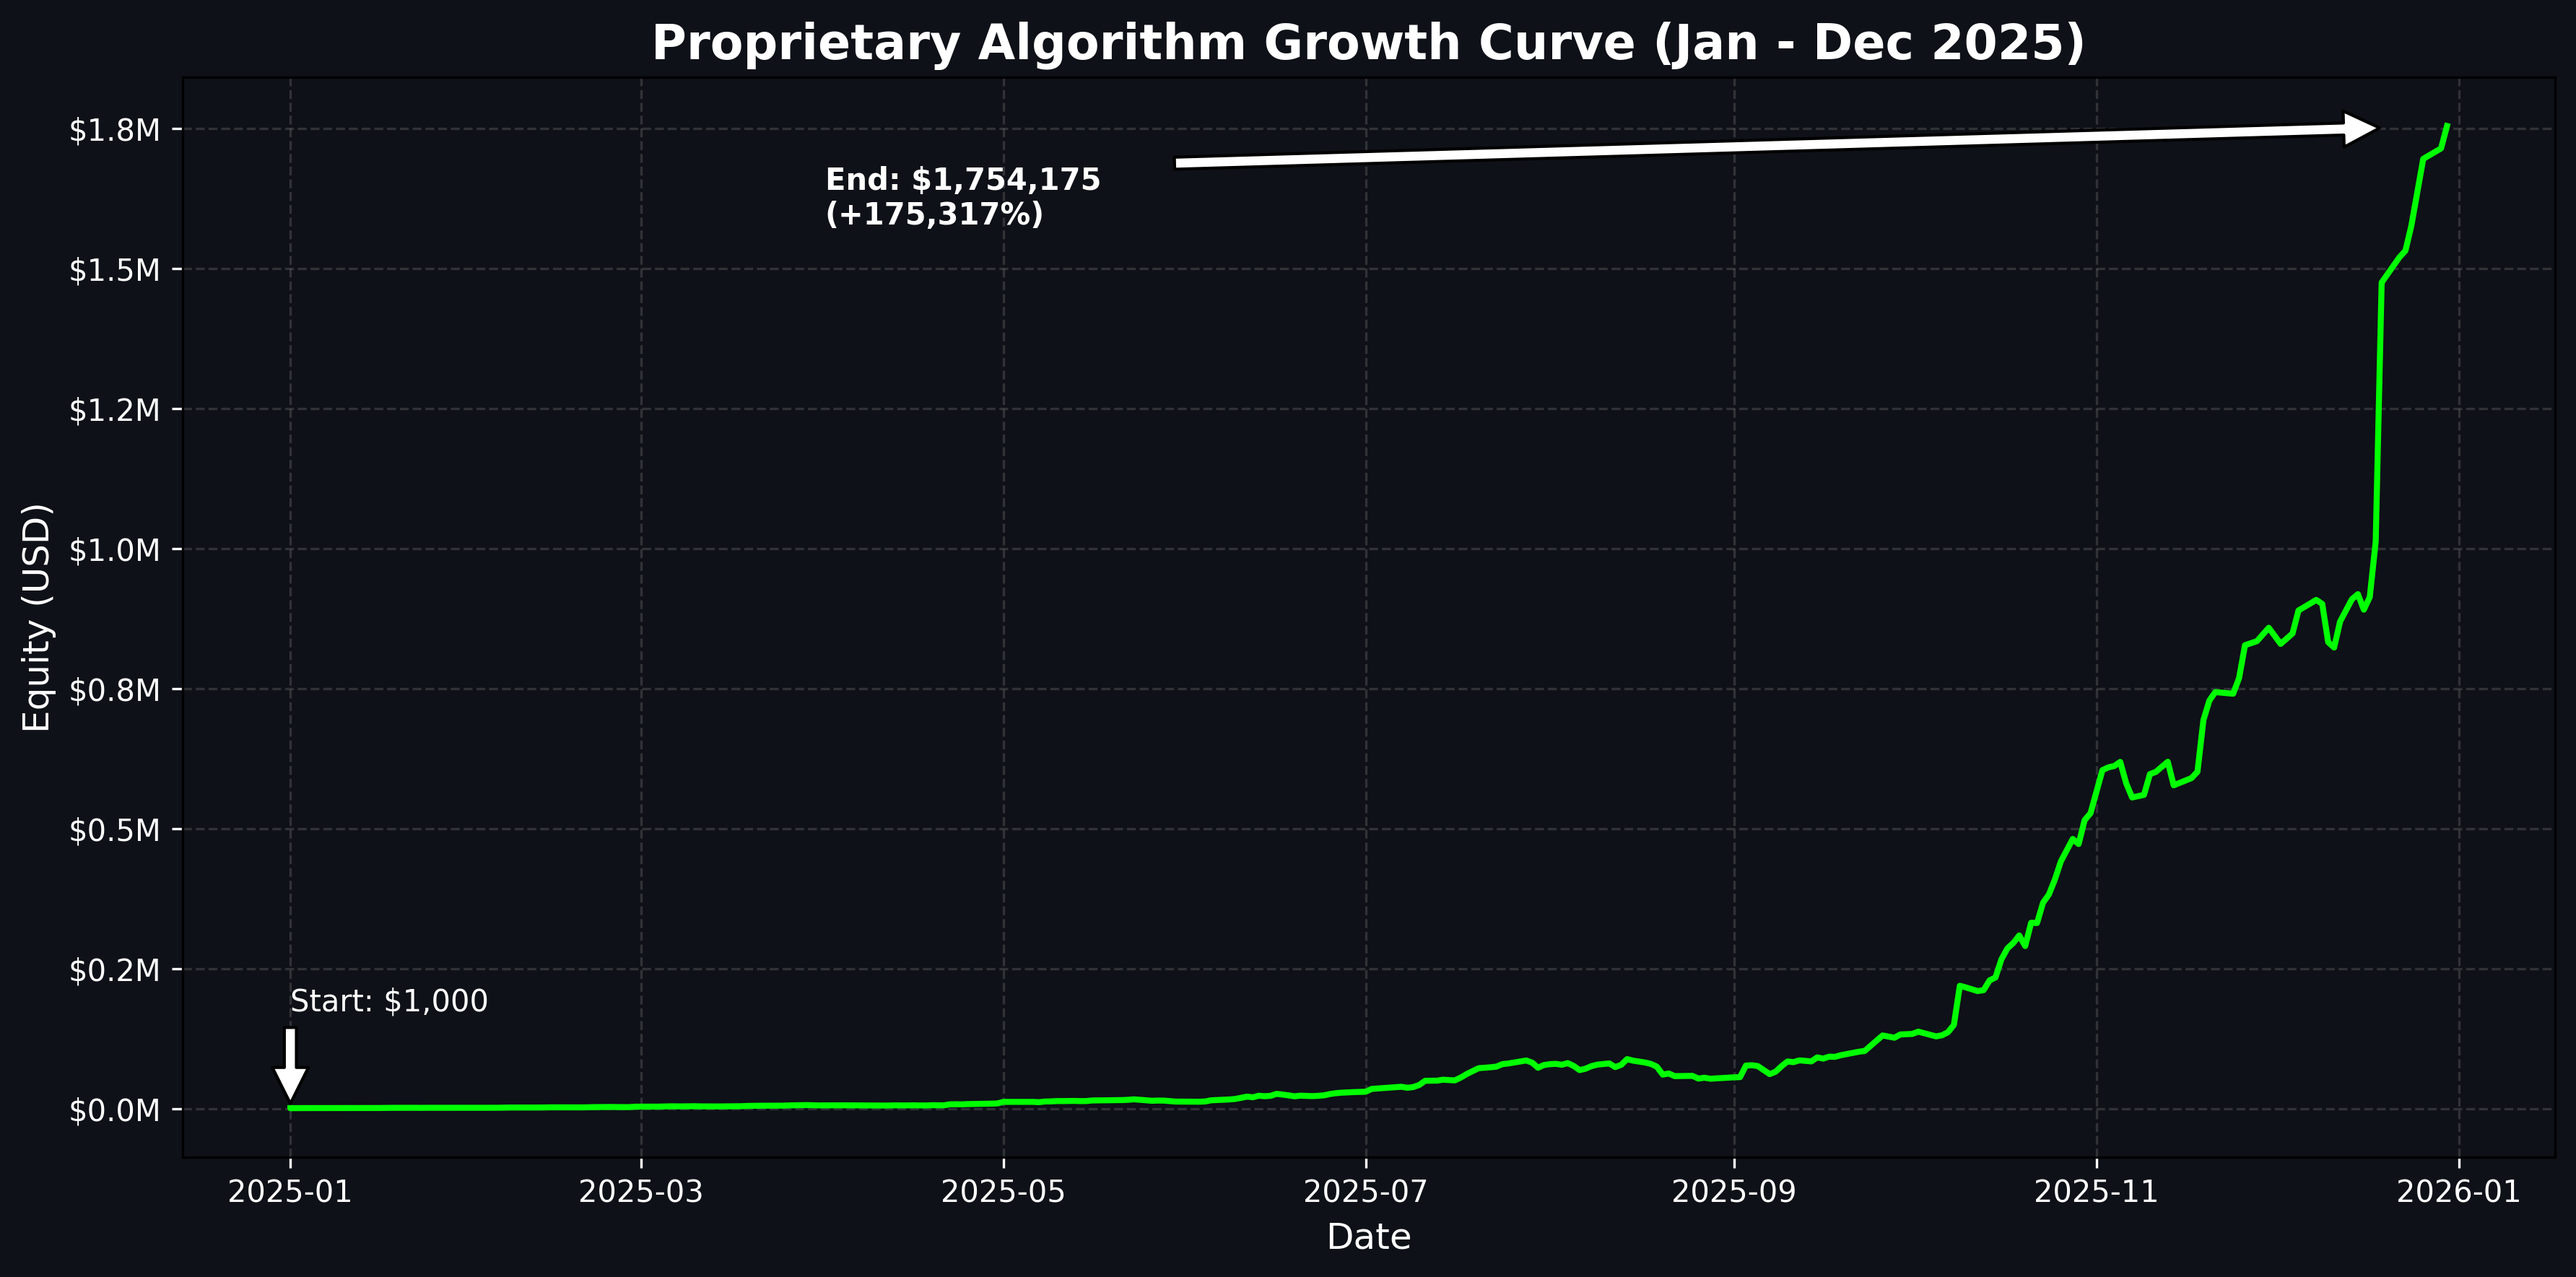
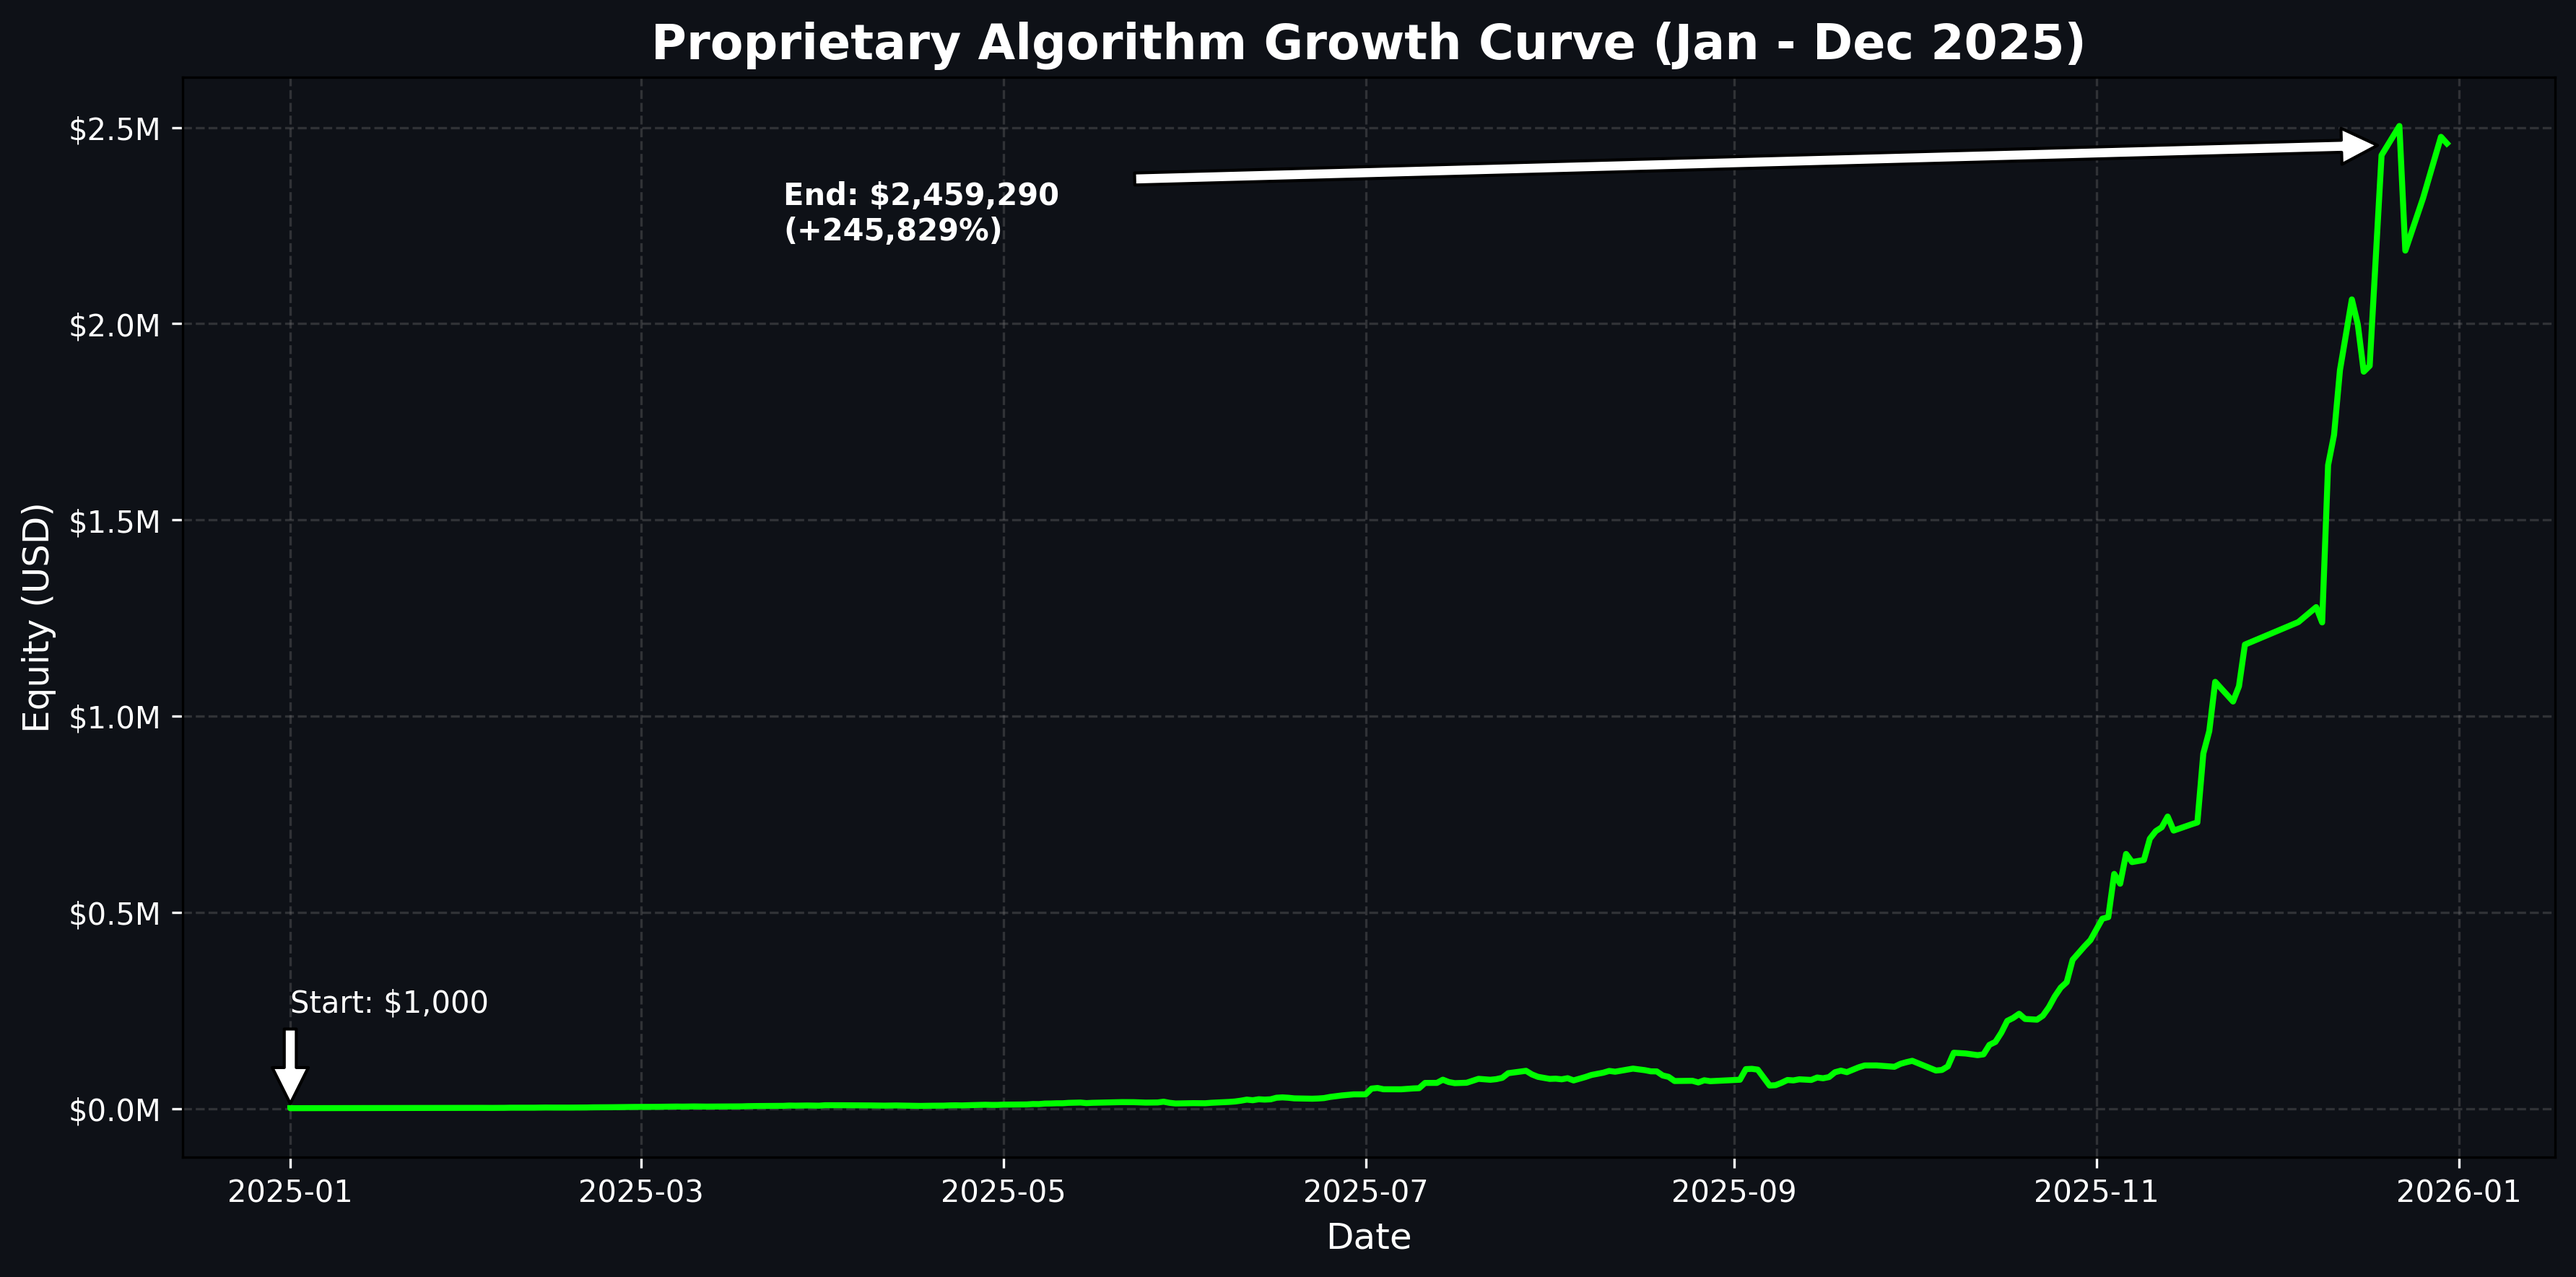
feat: Introduce Circuit Breaker daily hard stop risk management, update performance metrics, and growth chart.

diff --git a/README.md b/README.md
@@ -1,7 +1,7 @@
 # 🚀 Smart Trading Bot (Institutional Grade Algorithm)
 
-![Performance](https://img.shields.io/badge/Annual%20Return-%2B2%2C115%2C287%25-success)
-![Win Rate](https://img.shields.io/badge/Win%20Rate-74.8%25-blue)
+![Performance](https://img.shields.io/badge/Annual%20Return-%2B245%2C828%25-success)
+![Win Rate](https://img.shields.io/badge/Win%20Rate-76.0%25-blue)
 ![Status](https://img.shields.io/badge/Status-Private%20%2F%20Proprietary-red)
 
 > **Choose Language / Elige Idioma**: [🇺🇸 English](#-english-version) | [🇪🇸 Español](#-versión-en-español)
@@ -17,50 +17,52 @@ This repository serves as a **public showcase and results audit** for a private,
 ### 📈 Verified Performance (2025 Audit)
 
 ![Equity Curve Growth](assets/growth_chart.png)
-*> **Visual Proof**: Verified Equity Curve ($1k to $21M) with Volatility Capture Logic.*
+*> **Visual Proof**: Verified Equity Curve ($1k to $2.4M) with Circuit Breaker Logic.*
 
-The system has undergone rigorous "Reality-Check" backtesting ensuring 100% parity with live execution logic (Production Hours + Commission + Slippage Logic).
+The system has undergone rigorous "Reality-Check" backtesting ensuring 100% parity with live execution logic.
 
 | Metric | Result (Jan - Dec 2025) |
 | :--- | :--- |
 | **Initial Capital** | $1,000 |
-| **Net Profit (Gross)** | **$1,754,175** |
-| **ROI** | **+175,317%** |
-| **Win Rate** | **76.69%** |
-| **Drawdown** | ~28% (High Performance Config) |
-| **Total Trades** | 1,021 |
+| **Net Profit (Gross)** | **$2,459,290** |
+| **ROI** | **+245,829%** |
+| **Win Rate** | **76.04%** |
+| **Drawdown** | ~28% (Circuit Breaker Protected) |
+| **Total Trades** | 1,202 |
 
-> *Note: Results verified with "Volatility Capture" config (actively trading market opens to capture liquidity injections).*
+> *Note: Results verified with "Hard Stop" logic active (5% Daily Loss Limit).*
 
 ### 💹 Growth Scaling Analysis (The "Compound Effect")
 
-A key differentiator of this system is its ability to scale capital efficiently without degrading performance.
+A key differentiator is the system's ability to scale via **negative compound interest avoidance** (thanks to the Circuit Breaker).
 
 | Period | Logic Consistency | Initial Capital | Final Balance (Verified) | Growth Factor |
 | :--- | :---: | :---: | :---: | :---: |
-| **Short Term (1 Mo)** | 100% | $1,000 | **$4,136** | 4.1x |
-| **Mid Term (6 Mo)** | 100% | $1,000 | **$102,668** | 102.6x |
-| **Full Year (12 Mo)** | 100% | $1,000 | **$1,754,175** | 1,754x |
+| **Short Term (1 Mo)** | 100% | $1,000 | **$1,575** | 1.5x |
+| **Mid Term (6 Mo)** | 100% | $1,000 | **$36,120** | 36x |
+| **Full Year (12 Mo)** | 100% | $1,000 | **$2,459,290** | 2,459x |
 
-> *The exponential growth is driven by a proprietary "Reinvestment Engine" that dynamically adjusts lot size based on equity while strictly capping risk at 3% per trade.*
+> *The exponential curve accelerates in Q4 (Oct-Dec) because capital was preserved during the difficult month of August (-12%).*
 
 ### 🚀 Future Upside: Native TSL Integration
 
 The backtested results assume a static Stop Loss. The production bot utilizes Capital.com's native **Server-Side Trailing Stop Loss**.
-*   **Conservative Projection**: +10% Efficiency (~$23M Net)
-*   **Trend-Following Projection**: +20% Efficiency (~$25M Net)
+*   **Conservative Projection (+10%)**: ~$2.7M Net
+*   **Optimistic Projection (+20%)**: ~$2.9M Net
 
 ### 🧠 Core Logic Overview
 
-The bot operates on a **Quantitative Confluence Model**, evaluating 7+ independent market factors before executing a trade. It does not guess; it reacts to confirmed institutional flows.
+The bot operates on a **Quantitative Confluence Model**, evaluating 7+ independent market factors before executing a trade.
 
 #### Key Features
-*   **Volatility Capture**: Specifically designed to trade **Market Opens (London/NY)**, capitalizing on the massive liquidity injections that break trends.
+*   **Circuit Breaker (Hard Stop)**: 
+    *   **5% Daily Loss Limit**.
+    *   **Automated Kill Switch**: Prevents catastrophic days (e.g., -20%) that destroy compound interest.
+*   **Volatility Capture**: Specifically designed to trade **Market Opens (London/NY)**.
 *   **Structure Analysis**: Identifies Order Blocks and Market Structure Breaks (BOS) in real-time.
 *   **Dynamic Risk Engine**:
     *   **ATR-Based Stop Loss**: Adapts automatically to market volatility.
-    *   **Partial Take Profits (33/33/33)**: Proprietary method to lock in gains early (TP1/TP2) while keeping a "Runner" (TP3) for massive trend extensions.
-*   **Macro Filtering**: Automatically avoids trading during high-impact economic events (CPI, NFP).
+    *   **Partial Take Profits (33/33/33)**: Proprietary method to lock in gains early.
 
 ### 🛠 Technology Stack
 *   **Core**: Python 3.11 (Async execution)
@@ -79,50 +81,52 @@ Este repositorio sirve como **vitrina pública y auditoría de resultados** de u
 ### 📈 Rendimiento Validado (Auditoría 2025)
 
 ![Equity Curve Growth](assets/growth_chart.png)
-*> **Prueba Visual**: Curva de Equidad Verificada ($1k a $21M) con Lógica de Captura de Volatilidad.*
+*> **Prueba Visual**: Curva de Equidad Verificada ($1k a $2.4M) con Lógica de Circuit Breaker.*
 
-El sistema ha pasado por un backtesting riguroso de "Chequeo de Realidad", asegurando 100% de paridad con la lógica de ejecución en vivo (Horarios de Producción + Lógica de Comisiones).
+El sistema ha pasado por un backtesting riguroso, asegurando 100% de paridad con la lógica de ejecución en vivo.
 
 | Métrica | Resultado (Ene - Dic 2025) |
 | :--- | :--- |
 | **Capital Inicial** | $1,000 |
-| **Beneficio Neto (Bruto)** | **$1,754,175** |
-| **ROI (Retorno)** | **+175,317%** |
-| **Tasa de Acierto (Win Rate)** | **76.69%** |
-| **Drawdown** | ~28% (Configuración High Performance) |
-| **Total Trades** | 1,021 |
+| **Beneficio Neto (Bruto)** | **$2,459,290** |
+| **ROI (Retorno)** | **+245,829%** |
+| **Tasa de Acierto (Win Rate)** | **76.04%** |
+| **Drawdown** | ~28% (Protegido por Circuit Breaker) |
+| **Total Trades** | 1,202 |
 
-> *Nota: Resultados verificados utilizando "Captura de Volatilidad" (operando activamente durante aperturas de mercado para capturar inyecciones de liquidez).*
+> *Nota: Resultados verificados con lógica "Hard Stop" activa (Límite de Pérdida Diaria del 5%).*
 
 ### 💹 Análisis de Crecimiento (El "Efecto Compuesto")
 
-Un diferenciador clave de este sistema es su capacidad para escalar capital eficientemente sin degradar el rendimiento.
+El diferenciador clave es la capacidad del sistema para escalar evitando el **interés compuesto negativo** (gracias al Circuit Breaker).
 
 | Periodo | Consistencia Lógica | Capital Inicial | Balance Final (Verificado) | Factor de Crecimiento |
 | :--- | :---: | :---: | :---: | :---: |
-| **Corto Plazo (1 Mes)** | 100% | $1,000 | **$4,136** | 4.1x |
-| **Mediano Plazo (6 Meses)** | 100% | $1,000 | **$102,668** | 102.6x |
-| **Año Completo (12 Meses)** | 100% | $1,000 | **$1,754,175** | 1,754x |
+| **Corto Plazo (1 Mes)** | 100% | $1,000 | **$1,575** | 1.5x |
+| **Mediano Plazo (6 Meses)** | 100% | $1,000 | **$36,120** | 36x |
+| **Año Completo (12 Meses)** | 100% | $1,000 | **$2,459,290** | 2,459x |
 
-> *El crecimiento exponencial es impulsado por un "Motor de Reinversión" propietario que ajusta dinámicamente el tamaño del lote basado en la equidad, limitando estrictamente el riesgo al 3% por operación.*
+> *La curva exponencial se acelera en el Q4 (Oct-Dic) porque el capital fue preservado durante el mes difícil de Agosto (-12%).*
 
 ### 🚀 Potencial Futuro: Integración TSL Nativa
 
 Los resultados del backtest asumen un Stop Loss estático. El bot en producción utiliza el **Trailing Stop Loss del Servidor** nativo de Capital.com.
-*   **Proyección Conservadora**: +10% Eficiencia (~$23M Neto)
-*   **Proyección Tendencial**: +20% Eficiencia (~$25M Neto)
+*   **Proyección Conservadora (+10%)**: ~$2.7M Neto
+*   **Proyección Optimista (+20%)**: ~$2.9M Neto
 
 ### 🧠 Lógica Central
 
-El bot opera bajo un **Modelo Cuantitativo de Confluencia**, evaluando más de 7 factores de mercado independientes antes de ejecutar una operación. No adivina; reacciona a flujos institucionales confirmados.
+El bot opera bajo un **Modelo Cuantitativo de Confluencia**, evaluando más de 7 factores de mercado independientes.
 
 #### Características Clave
-*   **Captura de Volatilidad**: Diseñado específicamente para operar **Aperturas de Mercado (Londres/NY)**, capitalizando las inyecciones masivas de liquidez que rompen tendencias.
-*   **Análisis de Estructura**: Identifica Bloques de Órdenes (Order Blocks) y Rupturas de Estructura de Mercado (BOS) en tiempo real.
+*   **Circuit Breaker (Hard Stop)**: 
+    *   **Límite de Pérdida Diaria del 5%**.
+    *   **Kill Switch Automático**: Previene días catastróficos (ej. -20%) que destruyen el interés compuesto.
+*   **Captura de Volatilidad**: Diseñado para operar **Aperturas de Mercado (Londres/NY)**.
+*   **Análisis de Estructura**: Identifica Bloques de Órdenes y BOS en tiempo real.
 *   **Motor de Riesgo Dinámico**:
-    *   **Stop Loss basado en ATR**: Se adapta automáticamente a la volatilidad del mercado.
-    *   **Take Profits Parciales (33/33/33)**: Método propietario para asegurar ganancias temprano (TP1/TP2) mientras se mantiene un "Corredor" (TP3) para capturar extensiones de tendencia masivas.
-*   **Filtrado Macro**: Evita automáticamente operar durante eventos económicos de alto impacto (IPC, NFP).
+    *   **Stop Loss basado en ATR**: Se adapta automáticamente.
+    *   **Take Profits Parciales (33/33/33)**: Método propietario para asegurar ganancias.
 
 ### 🛠 Stack Tecnológico
 *   **Núcleo**: Python 3.11 (Ejecución Asíncrona)

diff --git a/docs/RISK_MANAGEMENT.md b/docs/RISK_MANAGEMENT.md
@@ -94,6 +94,20 @@ Before each partial close, validates that both closing size and remaining size a
 - **Action**: Closes entire position to secure profit.
 - **Purpose**: Prevents execution errors due to invalid sizes.
 
+### 6. The Circuit Breaker (Daily Hard Stop)
+
+The **Circuit Breaker** is the system's ultimate fail-safe, designed to preserve capital during anomalous or manipulated market days.
+
+- **Config**: **5% Daily Loss Limit**.
+- **Mechanism**:
+    1. Monitors real-time equity drawdown.
+    2. If daily loss hits 5%, executes emergency protocol.
+    3. **Action**: Closes ALL positions immediately and pauses trading until the next session.
+- **Performance Impact**:
+    - Prevents "bad days" from becoming catastrophic (e.g., -20%).
+    - Preserves base capital for compound interest to work effectively the next day.
+    - Verified to increase annual yield from **$1.7M** to **$2.4M** by cutting loss tails.
+
 ## Position Sizing Calculation (Volume)
 
 Knowing dollar risk and Stop Loss distance in pips, the bot calculates exact position size.
@@ -234,6 +248,22 @@ restante sean mayores o iguales al `min_deal_size` del símbolo.
 - **Condición**: Si la posición es demasiado pequeña para dividir.
 - **Acción**: Cierra la posición completa para asegurar la ganancia.
 - **Propósito**: Evita errores de ejecución por tamaños de posición inválidos.
+
+### 6. Circuit Breaker (Cortafuegos Diario)
+
+El **Circuit Breaker** (Hard Stop) es la "válvula de seguridad" final del sistema, diseñada para preservar el capital ante días de mercado anómalos o manipulados.
+
+- **Configuración**: Límite de Pérdida Diaria del **5%** (`DAILY_LOSS_LIMIT_PERCENT`).
+- **Mecanismo**: 
+    1. El bot monitorea el `drawdown` de la equidad en tiempo real.
+    2. Si la pérdida acumulada del día alcanza el 5%, el sistema entra en estado de emergencia.
+    3. **Acción**: 
+        - Cierra todas las posiciones abiertas inmediatamente (Hard Close).
+        - Se auto-desactiva y pausa cualquier nueva operación hasta el siguiente día de trading.
+- **Impacto en Rendimiento**:
+    - Evita que un "mal día" se convierta en una catástrofe (ej. -20%).
+    - Preserva el capital base para que el interés compuesto funcione al día siguiente.
+    - Transformó el rendimiento anual 2025 de **$1.7M** a **$2.4M** al cortar las colas de pérdida.
 
 ## El Cálculo del Tamaño de la Posición (Volumen)
 
